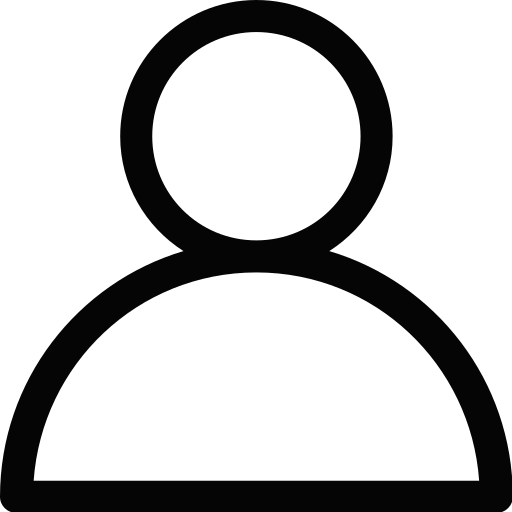
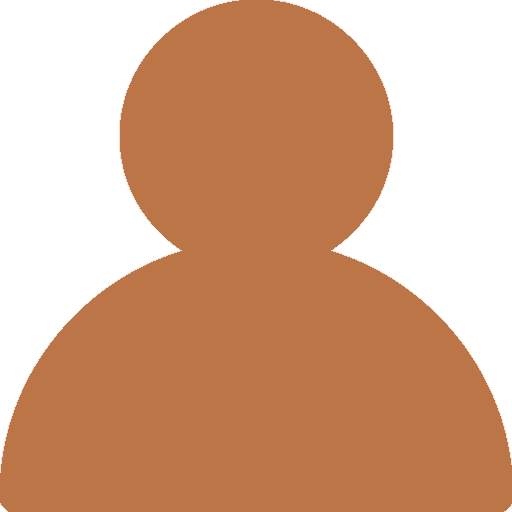
Creación del about-me

diff --git a/src/app/app.module.ts b/src/app/app.module.ts
@@ -1,12 +1,13 @@
 import { NgModule } from '@angular/core';
 import { BrowserModule } from '@angular/platform-browser';
-
 import { AppRoutingModule } from './app-routing.module';
 import { AppComponent } from './app.component';
 import { LogoApComponent } from './component/logo-ap/logo-ap.component';
 import { HeaderComponent } from './component/header/header.component';
 import { SocialComponent } from './component/social/social.component';
 import { ButtonLoginComponent } from './component/button-login/button-login.component';
+import { BannerComponent } from './component/banner/banner.component';
+import { AboutMeComponent } from './component/about-me/about-me.component';
 
 @NgModule({
   declarations: [
@@ -14,7 +15,9 @@ import { ButtonLoginComponent } from './component/button-login/button-login.comp
     LogoApComponent,
     HeaderComponent,
     SocialComponent,
-    ButtonLoginComponent
+    ButtonLoginComponent,
+    BannerComponent,
+    AboutMeComponent
   ],
   imports: [
     BrowserModule,

diff --git a/src/app/component/about-me/about-me.component.html b/src/app/component/about-me/about-me.component.html
@@ -1,0 +1,21 @@
+<div class="container-fluid">
+    <div class="row">
+
+        <div class="col-xs-12 col-sm-2 col-md-2  col-lg-2">
+            <img src="../../../assets/profile.png" alt="banner" class="img-fluid" id="profile">
+        </div>
+
+        <div class="col-xs-12 col-sm-2  col-md-2  col-lg-2">
+            <h2>Nombre Apellido</h2>
+            <p>Título</p>
+        </div>
+        <div class="col-xs-12 col-sm-8  col-md-8  col-lg-8">
+            <h2>Presentación</h2>
+            <p>
+                Lorem ipsum dolor sit amet consectetur adipisicing elit. Eveniet, laudantium incidunt beatae et porro 
+                consequuntur quas assumenda cumque autem sed rerum recusandae, fugit perspiciatis explicabo accusantium
+                earum nostrum. Natus, repudiandae.
+            </p>
+        </div>
+    </div>
+</div>

diff --git a/src/styles.css b/src/styles.css
@@ -16,3 +16,32 @@
     text-decoration: none;
     font-size: 15px;
 }
+
+h1{
+    color: #dae0ea;
+}
+
+h2{
+    color: #dae0ea;
+}
+
+p{
+    color: #dae0ea;
+}
+
+html{
+    background-color: #221c1a;
+}
+
+/*FOTO DE PROFILE*/
+#profile{
+    display: inline-block;
+    background: #71413b;
+    color: #bb7547;
+    padding: 10px 20px;
+    margin: 5px;
+    border: 5px solid;
+    border-radius: 100%;
+    border-color: #141013;
+    width: 200px;
+}

diff --git a/src/app/component/about-me/about-me.component.ts b/src/app/component/about-me/about-me.component.ts
@@ -1,0 +1,15 @@
+import { Component, OnInit } from '@angular/core';
+
+@Component({
+  selector: 'app-about-me',
+  templateUrl: './about-me.component.html',
+  styleUrls: ['./about-me.component.css']
+})
+export class AboutMeComponent implements OnInit {
+
+  constructor() { }
+
+  ngOnInit(): void {
+  }
+
+}

diff --git a/src/app/component/banner/banner.component.ts b/src/app/component/banner/banner.component.ts
@@ -1,0 +1,15 @@
+import { Component, OnInit } from '@angular/core';
+
+@Component({
+  selector: 'app-banner',
+  templateUrl: './banner.component.html',
+  styleUrls: ['./banner.component.css']
+})
+export class BannerComponent implements OnInit {
+
+  constructor() { }
+
+  ngOnInit(): void {
+  }
+
+}

diff --git a/src/main.ts b/src/main.ts
@@ -1,6 +1,5 @@
 import { enableProdMode } from '@angular/core';
 import { platformBrowserDynamic } from '@angular/platform-browser-dynamic';
-
 import { AppModule } from './app/app.module';
 import { environment } from './environments/environment';
 

diff --git a/src/app/component/header/header.component.css b/src/app/component/header/header.component.css
@@ -10,6 +10,11 @@ app-social{
 
 app-button-login{
     float: right;
-    margin-top: -72px;
+    margin-top: -74px;
     margin-right: 5px;
+}
+
+header{
+    border: 5px solid;
+    border-color: #141013;
 }

diff --git a/src/app/component/header/header.component.html b/src/app/component/header/header.component.html
@@ -2,4 +2,5 @@
     <app-logo-ap></app-logo-ap>
     <app-social></app-social>
     <app-button-login></app-button-login>
+    <app-banner></app-banner>
 </div>

diff --git a/src/app/component/banner/banner.component.html b/src/app/component/banner/banner.component.html
@@ -1,0 +1,3 @@
+<div>
+    <img src="../../../assets/banner.png" alt="banner">
+</div>

diff --git a/src/app/component/about-me/about-me.component.css b/src/app/component/about-me/about-me.component.css
@@ -1,0 +1,4 @@
+.row{
+    background-color: #221c1a;
+    padding: 10px;
+}

diff --git a/src/app/app.component.html b/src/app/app.component.html
@@ -1,1 +1,2 @@
 <app-header></app-header>
+<app-about-me></app-about-me>

diff --git a/src/app/component/banner/banner.component.css b/src/app/component/banner/banner.component.css
@@ -1,0 +1,3 @@
+img{
+    width: 100%;
+}
